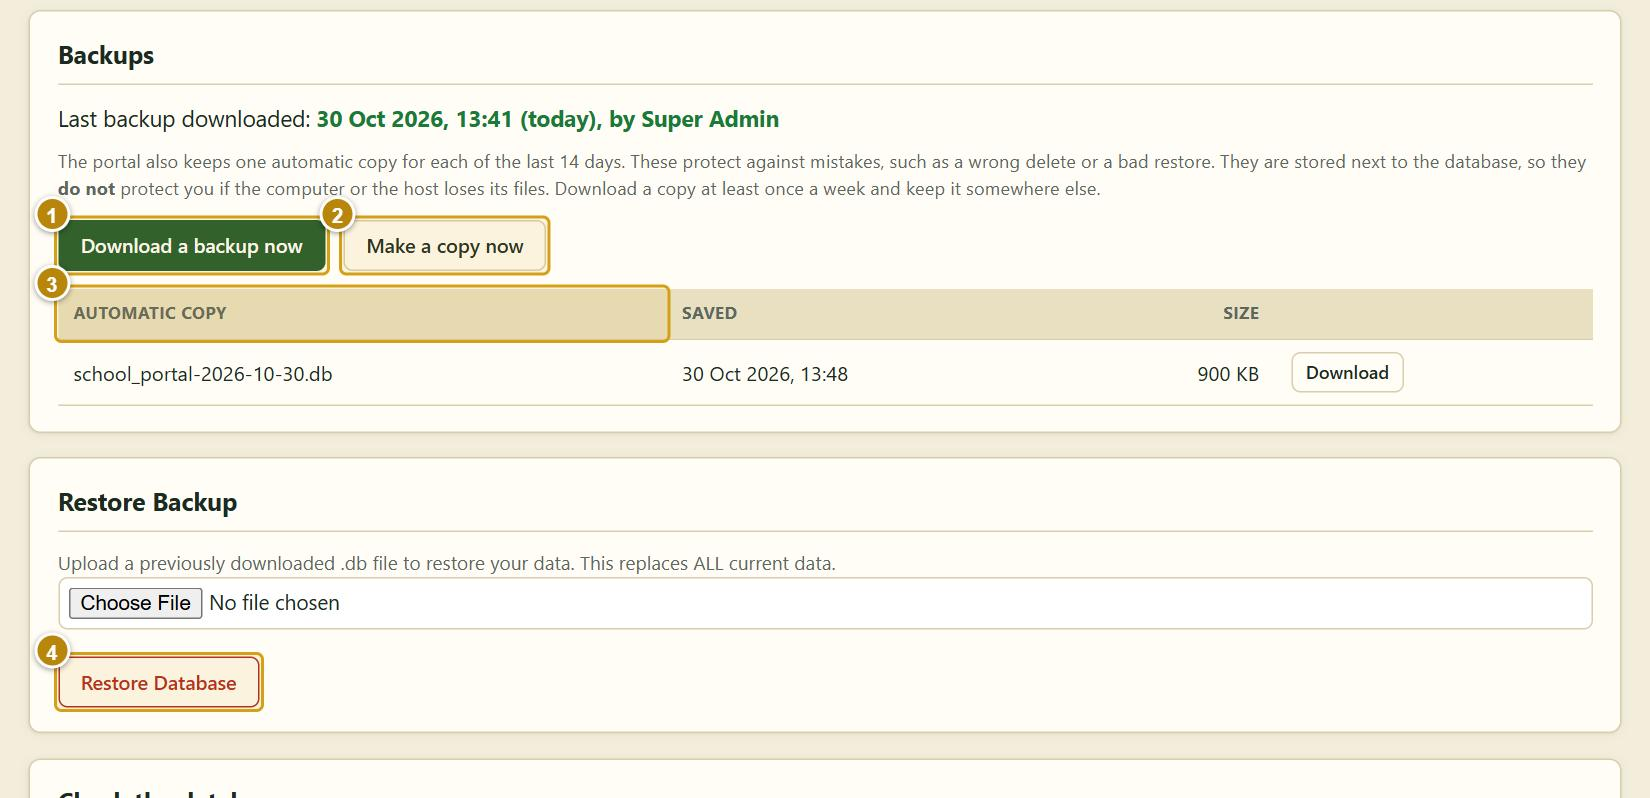
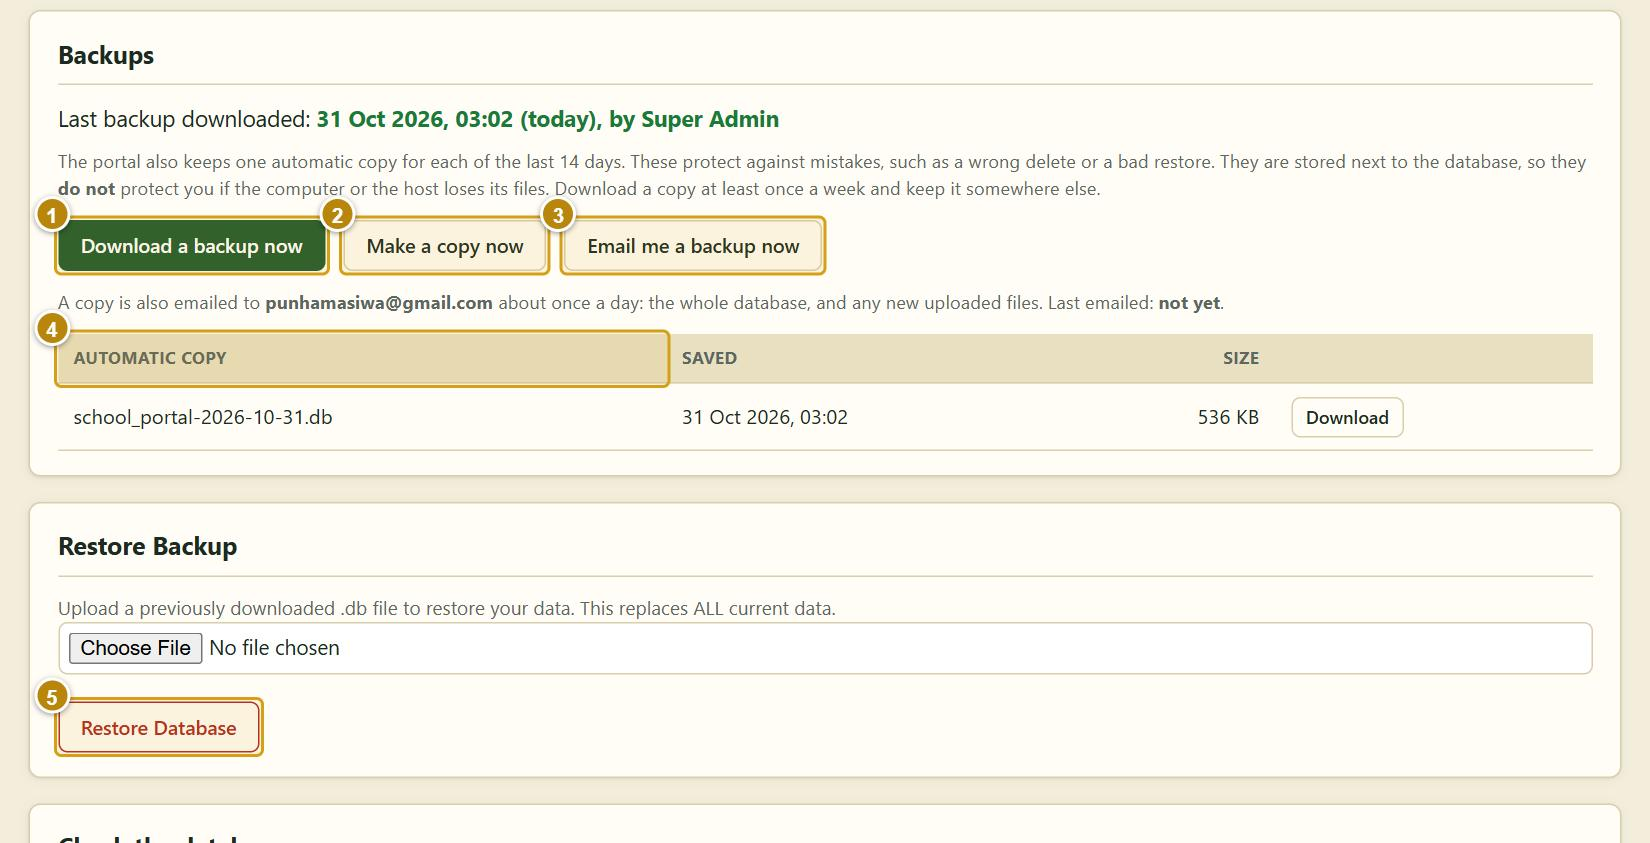
Administrator manual: emailed backups, restore, temporary storage
The Database page now explains "Email me a backup now" (picture retaken with all five
markers), the safer Restore Database (file check and "before-restore" copy), and the red
temporary-storage warning. Adds two how-to boxes (email a backup, restore one), two quick
reference rows, three FAQs, two glossary words, and a longer Dashboard intro. The forgot
password page no longer says the portal "does not send emails" (it now emails backups); it
says it does not email passwords.

Two older defects found while checking the PDF, fixed for all five manuals: the arrow in
"Admin Panel -> Database" printed as !' (the built-in font has no arrow, so it is now >),
and rows of the "Everyday jobs" table overlapped when the first column wrapped.

capture-manual can now retake one page: npm run capture-manual -- admin database

Changed region(s): [[0.0, 0.0602, 0.9891, 0.9624]]

diff --git a/backend/src/manual/content/admin.ts b/backend/src/manual/content/admin.ts
@@ -8,7 +8,7 @@ export const admin: RoleManual = {
   pages: [
     {
       id: 'dashboard', title: 'Dashboard', route: '/dashboard',
-      intro: 'Numbers for the whole school at a glance, and a warning when someone has asked for a new password.',
+      intro: 'Numbers for the whole school at a glance, and warnings at the top when something needs you: someone has asked for a new password, no backup has been downloaded or emailed for a week, or (in red) the portal is on temporary storage and could lose its information.',
       callouts: [
         { target: '.kpi >> nth=0', press: 'Pupils / Teachers / Classes', does: 'How many of each are registered.', kind: 'area' },
         { target: '.kpi >> nth=3', press: 'Fees outstanding', does: 'What pupils owe the school today, as the Bursar sees it.', kind: 'area' },
@@ -208,15 +208,24 @@ export const admin: RoleManual = {
       id: 'database', title: 'Database: backup and restore', route: '/admin',
       steps: [{ click: 'button.tab:has-text("Database")' }, { wait: 900 }],
       cropFrom: 'h2:text-is("Backups")',
-      intro: 'The whole school’s information lives in one database file. Back it up regularly. When no backup has been downloaded for a week, your Dashboard shows a yellow reminder.',
+      intro: 'The whole school’s information lives in one database file. Back it up regularly. When no backup has been downloaded or emailed for a week, your Dashboard shows a yellow reminder.',
       callouts: [
         { target: 'button:text-is("Download a backup now")', press: 'Download a backup now', does: 'Saves a copy of everything to your computer. Keep copies somewhere safe, away from the portal’s computer.', kind: 'primary' },
         { target: 'button:text-is("Make a copy now")', press: 'Make a copy now', does: 'Refreshes today’s automatic copy, kept on the portal’s computer. Use it just before a risky change.', kind: 'default' },
-        { target: 'thead th:text-is("Automatic copy")', press: 'Automatic copies', does: 'One for each of the last 14 days. They protect against mistakes, but not against the portal’s computer losing its files.', kind: 'area' },
-        { target: 'button:text-is("Restore Database")', press: 'Restore Database', does: 'Replaces EVERYTHING with a backup file you choose.', kind: 'danger' },
+        { target: 'button:text-is("Email me a backup now")', press: 'Email me a backup now', does: 'Sends the whole database to the email address chosen for backups, together with any new homework pictures and payment proofs (zipped, in separate emails). The portal also does this by itself about once a day. The button is only there once emailed backups have been set up; see "How do I get the backup sent to my email?" at the end of this manual.', kind: 'default' },
+        { target: 'thead th:text-is("Automatic copy")', press: 'Automatic copies', does: 'One for each of the last 14 days, and a "before-restore" copy each time a backup is restored. They protect against mistakes, but not against the portal’s computer losing its files.', kind: 'area' },
+        { target: 'button:text-is("Restore Database")', press: 'Restore Database', does: 'Replaces EVERYTHING with the backup file you choose. The portal first checks that it really is a backup of this portal (anything else is refused and nothing changes), and keeps what it held just before as a "before-restore" copy in the list above.', kind: 'danger' },
       ],
-      tips: ['"Check the database" (further down) looks for records that point at something that is gone, such as a bill for a pupil who was deleted. It only reports; it never deletes anything.'],
-      warnings: ['Download a backup every week, and before every term opens. If the portal is hosted on a free service its files can be wiped when it restarts.', 'Restoring a backup replaces all current information. Only do it if you are sure.'],
+      tasks: [
+        { title: 'have the portal email you a backup', steps: ['Open Admin Panel and press the "Database" tab.', 'Press "Email me a backup now".', 'Wait for the message "Backup emailed to ..." (with many uploaded files it can take a minute or two). If a red box appears instead, it says what went wrong.', 'Open your mailbox, and look in Spam too. The email "… backup - (date)" has the database attached as a .db file. Further emails carry the homework pictures and payment proofs.', 'Keep the newest one somewhere safe. From then on the portal sends one by itself about once a day.'] },
+        { title: 'bring a backup back (restore)', steps: ['Find the backup you want: a .db file you downloaded, or the one attached to a backup email. Save it on your computer. If it ends in .zip, unzip it first.', 'Open Admin Panel, press the "Database" tab and scroll down to "Restore Backup".', 'Press "Choose File", pick the .db file, then press "Restore Database".', 'Read the message. It says the portal is now using the backup, and names the "before-restore" copy it kept.', 'Refresh the page and check that the school’s information is back. If you chose the wrong file, download the "before-restore" copy from the list and restore that one instead.'] },
+      ],
+      tips: ['"Check the database" (further down) looks for records that point at something that is gone, such as a bill for a pupil who was deleted. It only reports; it never deletes anything.', 'A backup that has been emailed counts as a downloaded one, so the Dashboard reminder stays away while the emails keep arriving. If emailing stops working, the reminder comes back after a week.'],
+      warnings: [
+        'Download a backup every week, and before every term opens. On a free hosting service the portal’s files (the whole database and every upload) are wiped whenever it restarts, is updated, or goes to sleep after 15 quiet minutes. If your Dashboard shows a red "temporary storage" message, the portal is on such a service: ask whoever looks after the portal to attach a permanent disk, and until then download a backup every day.',
+        'Restoring a backup replaces all current information. Only do it if you are sure.',
+        'Backup emails hold the children’s records and fee details. Keep that mailbox private and do not forward them. The homework pictures and payment proofs that come by email cannot be put back with a button; ask whoever looks after the portal.',
+      ],
     },
   ],
   quick: [
@@ -229,7 +238,8 @@ export const admin: RoleManual = {
     { job: 'Check the school’s money', where: 'Bursary', how: 'Choose a period → "Print".' },
     { job: 'Compare the classes at the end of term', where: 'Compare Classes', how: 'Choose the term → "Print".' },
     { job: 'See who reversed or cancelled something', where: 'Bursary → Audit trail', how: 'Choose "What was done" and the period.' },
-    { job: 'Back up the portal', where: 'Admin Panel → Database', how: '"Download a backup now".' },
+    { job: 'Back up the portal', where: 'Admin Panel → Database', how: '"Download a backup now", or "Email me a backup now".' },
+    { job: 'Bring a backup back', where: 'Admin Panel → Database', how: 'Restore Backup → choose the .db file → "Restore Database".' },
   ],
   faqs: [
     { q: 'I forgot the administrator password.', a: 'Another administrator can reset it (Admin Panel → Users → Reset password). If there is none, switch the portal off and run "npm run reset-password -- your@email.com NewPassword1" inside the backend folder, then start the portal again.' },
@@ -239,6 +249,9 @@ export const admin: RoleManual = {
     { q: 'Pupils say the timetable is empty.', a: 'Publish it first: pupils see only published lessons.' },
     { q: 'Report cards show different grades from before.', a: 'Someone changed the grade bands under "Grading and marks". Grades always follow the current bands.' },
     { q: 'I cannot change a payment.', a: 'Only the Bursar can change money records. This protects the accounts. Every change the Bursar makes is written in Bursary → Audit trail.' },
+    { q: 'How do I get the backup sent to my email?', a: 'Whoever looks after the portal sets it up once (the README section "Emailed backups" lists what to enter: the address to send to and a mail account). After that the portal emails the database about once a day, and "Email me a backup now" in Admin Panel → Database sends one straight away. It needs a paid hosting plan, because free hosting blocks outgoing email.' },
+    { q: 'Under Backups a red box says the last emailed backup did not work.', a: 'The box gives the reason. "App Password" means the mail account refused the password: Gmail needs an App Password, not the normal one. "Could not be reached" means the portal cannot contact the mail server, which is what free hosting does to email. Ask whoever looks after the portal to correct it, then press "Email me a backup now" to try again.' },
+    { q: 'The Dashboard says "This portal is on temporary storage".', a: 'The host erases the portal’s files whenever it restarts or goes to sleep, so pupils, marks and payments disappear. Ask whoever looks after the portal to attach a permanent disk (README: "Keeping your data"). Until then download a backup every day, and restore it after each time the portal is wiped.' },
     { q: 'Can the audit trail be edited or deleted?', a: 'Not from the portal. It is written automatically, there is no page or button to change or remove a line, and even the SQL tool in the Database tab refuses to. Restoring an old backup does replace the whole database, including this record, so keep your backups.' },
   ],
   glossary: [
@@ -247,5 +260,7 @@ export const admin: RoleManual = {
     { term: 'Learning area', meaning: 'A subject in the Heritage-Based Curriculum.' },
     { term: 'Archive', meaning: 'Moving a finished term’s results out of the live lists. They are kept.' },
     { term: 'Publish', meaning: 'Making a timetable visible to pupils and teachers.' },
+    { term: 'Backup', meaning: 'A copy of the whole database in one .db file. Download it or have it emailed, and keep it away from the portal’s computer.' },
+    { term: 'Restore', meaning: 'Putting a backup back, which replaces everything the portal holds now. The portal keeps what it held just before as a "before-restore" copy.' },
   ],
 };

diff --git a/backend/src/manual/render.ts b/backend/src/manual/render.ts
@@ -274,8 +274,10 @@ function render(manual: RoleManual, school: SchoolInfo, who: Who, portalUrl: str
   doc.fillColor('#ffffff').font('Helvetica-Bold').fontSize(8.6).text('The job', M + 6, y + 5, { lineBreak: false }).text('Where', M + 185, y + 5, { lineBreak: false }).text('How', M + 300, y + 5, { lineBreak: false });
   y += 17;
   manual.quick.forEach((q, i) => {
+    doc.font('Helvetica-Bold').fontSize(9); // the job is printed in bold, which is wider, so measure it in bold or its row comes out too short
+    const jobHeight = doc.heightOfString(q.job, { width: 170 });
     doc.font('Helvetica').fontSize(9);
-    const h = Math.max(doc.heightOfString(q.job, { width: 170 }), doc.heightOfString(q.where, { width: 105 }), doc.heightOfString(q.how, { width: width - 305 })) + 9;
+    const h = Math.max(jobHeight, doc.heightOfString(q.where, { width: 105 }), doc.heightOfString(q.how, { width: width - 305 })) + 9;
     ensure(h);
     if (i % 2 === 0) doc.save().rect(M, y, width, h).fill(COLORS.cream).restore();
     doc.fillColor(COLORS.ink).font('Helvetica-Bold').text(q.job, M + 6, y + 4.5, { width: 170 });
@@ -353,6 +355,8 @@ function render(manual: RoleManual, school: SchoolInfo, who: Who, portalUrl: str
 
 // Two passes: the first learns which page every heading lands on, the second prints those numbers in the contents.
 export async function buildManual(manual: RoleManual, school: SchoolInfo, who: Who, portalUrl: string): Promise<Buffer> {
+  // The PDF's built-in font has no arrow character (it printed as "!'"), so the "Admin Panel → Database" style paths use ">"
+  manual = JSON.parse(JSON.stringify(manual).replace(/→/g, '>'));
   const first = await render(manual, school, who, portalUrl, new Map());
   return (await render(manual, school, who, portalUrl, first.pages)).buf;
 }

diff --git a/backend/scripts/capture-manual-screenshots.ts b/backend/scripts/capture-manual-screenshots.ts
@@ -5,6 +5,7 @@
  *   cd backend
  *   npm run capture-manual                      # all pictures
  *   npm run capture-manual -- bursary           # only one account type
+ *   npm run capture-manual -- admin database    # only one page of one account type (its id in src/manual/content)
  *   SITE=http://localhost:3000 npm run capture-manual
  *
  * For every control a manual explains, a gold numbered marker is drawn over the control, so the numbers in the
@@ -22,6 +23,7 @@ const OUT = path.join(__dirname, '../assets/manual');
 const WIDTH = 1100;
 const MAX_HEIGHT = 1250; // taller pictures are shrunk to fit the PDF page, so controls must sit inside this
 const only = process.argv[2];
+const onlyPage = process.argv[3]; // with an account type: retake just that page's picture, e.g. "admin database"
 
 const missing: string[] = [];
 
@@ -141,10 +143,11 @@ async function main() {
     await login(page, manual.sampleLogin.email, manual.sampleLogin.password, manual.sampleLogin.landing);
     const landing = manual.sampleLogin.landing;
     const layout = commonPages(manual.role).find((x) => x.id === 'layout')!;
-    await capture(page, `${manual.role}-layout`, layout, landing);
+    if (!onlyPage) await capture(page, `${manual.role}-layout`, layout, landing);
     const takeAll = async () => {
       for (const p of manual.pages) {
         if (p.noImage) continue;
+        if (onlyPage && p.id !== onlyPage) continue;
         const name = p.image || `${manual.role}-${p.id}`;
         console.log(name);
         try { await capture(page, name, p, landing); } catch (e: any) { missing.push(`${name}: page failed: ${String(e.message).split('\n')[0]}`); }

diff --git a/backend/src/manual/content/common.ts b/backend/src/manual/content/common.ts
@@ -105,7 +105,7 @@ export function commonPages(role: Role): ManualPage[] {
       route: '/forgot-password',
       intro: role === 'admin'
         ? 'Another administrator can give you a temporary password (Admin Panel, then Users, then Reset password). If you are the only administrator and cannot log in, whoever looks after the portal can reset it from the server; see the last page of this manual.'
-        : 'The portal does not send emails. Instead you ask the school administrator, who gives you a temporary password. You then choose a new one of your own.',
+        : 'The portal does not email passwords. Instead you ask the school administrator, who gives you a temporary password. You then choose a new one of your own.',
       callouts: [
         { target: '#identifier', press: 'Email address or registration number', does: 'Type the email you log in with, or your registration number.', kind: 'field' },
         { target: 'button:text-is("Ask for a new password")', press: 'Ask for a new password', does: 'Tells the administrator that you need help. Nothing else happens until they act.', kind: 'primary' },
